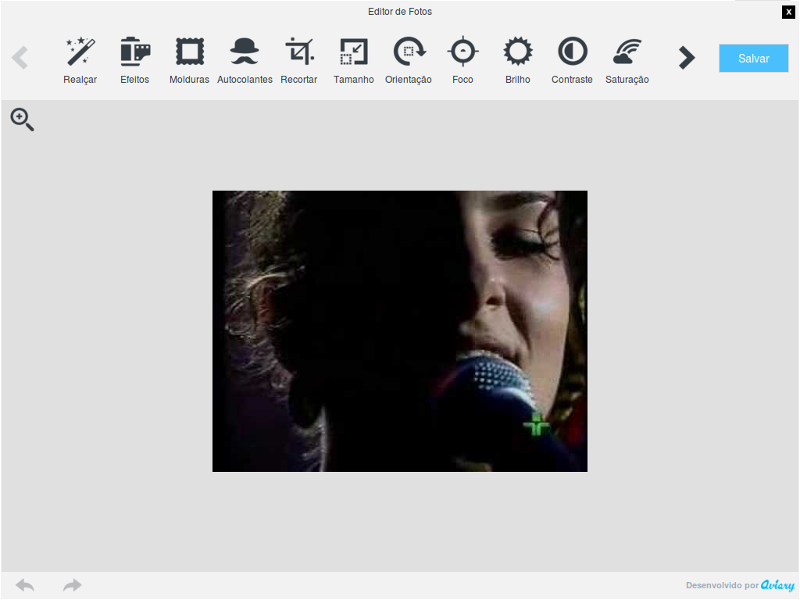
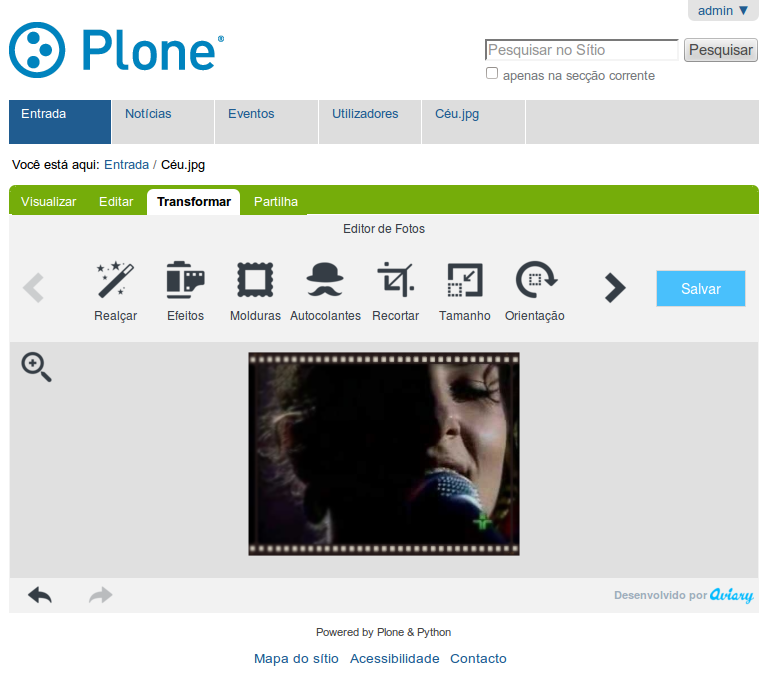
Update package documentation and screenshot

diff --git a/README.rst b/README.rst
@@ -7,9 +7,9 @@ collective.aviary
 Life, the Universe, and Everything
 ==================================
 
-``collective.aviary`` integrates the `Aviary`_ photo editor into Plone.
+``collective.aviary`` integrates the `Aviary photo editor`_ into Plone.
 
-.. _`Aviary`: http://developers.aviary.com/
+.. _`Aviary photo editor`: http://developers.aviary.com/
 
 Mostly Harmless
 ===============
@@ -55,14 +55,21 @@ Check the box next to ``collective.aviary`` and click the 'Activate' button.
 Usage
 -----
 
+The Aviary photo editor is a proprietary web widget that can be embedded in
+any website with just a few lines of Javascript, adding simple yet powerful
+image editing to an existing workflow. It is optimized for the latest versions
+of Chrome, Firefox, Safari, and Internet Explorer (IE9). The editor also works
+in mobile browsers, so it will function on handheld touch-screen devices, but
+it works best on tablets.
+
 ``collective.aviary`` replaces the standard **Transform** tab in native Image
-content type with a new one that invokes Aviary service.
+content type with a new one that invokes the Aviary photo editor.
 
 .. image:: https://raw.github.com/collective/collective.aviary/master/aviary.png
     :align: center
     :alt: The Aviary photo editor in action.
-    :height: 600px
-    :width: 800px
+    :height: 680px
+    :width: 768px
 
 .. Note::
     Aviary Basic SDK maximum output resolution is 1 megapixel on its web
@@ -71,11 +78,11 @@ content type with a new one that invokes Aviary service.
 To-do list
 ----------
 
-- Load Aviary photo editor automatically
-- Define available tools
 - `Enable CORS`_
+- `Define available tools`_
 
 .. _`Enable CORS`: https://github.com/collective/collective.aviary/issues/1
+.. _`Define available tools`: https://github.com/collective/collective.aviary/issues/4
 
 Not entirely unlike
 ===================
@@ -85,13 +92,13 @@ Not entirely unlike
     rotate, flip, blur, compress, change contrast & brightness, sharpen, add
     drop shadows, crop, resize an image, save as, and apply sepia. Was the
     first attemp to enhance Plone image editing options but, let's face it,
-    who wants to use an user interface à la `GIMP`_ these days?
+    who wants to use a user interface à la `GIMP`_ these days?
 
 `collective.externalimageeditor`_
-    Integrates `Aviary`_, `FotoFlexer`_ and `Pixlr`_ into Plone.
-    Unfortunately, `Aviary support was broken`_ when we test it and it was the
-    only service we wanted to use. On the other side, creating a new package
-    with support only for `Aviary`_ allow us better control of its features.
+    Integrates Aviary, `FotoFlexer`_ and `Pixlr`_ into Plone. Unfortunately,
+    `Aviary support was broken`_ when we test it and it was the only service
+    we wanted to use. On the other side, creating a new package with support
+    only for Aviary allow us better control of its features.
 
 `plone.app.imagecropping`_
     Allows images to be manually cropped using `Jcrop`_, a jQuery image

diff --git a/CONTRIBUTORS.rst b/CONTRIBUTORS.rst
@@ -7,6 +7,7 @@ the following people:
 - Marcos F. Romero
 - André Nogueira
 - Héctor Velarde
+- Juan Pablo Giménez
 
 You can find an updated list of package contributors on `GitHub`_.
 
